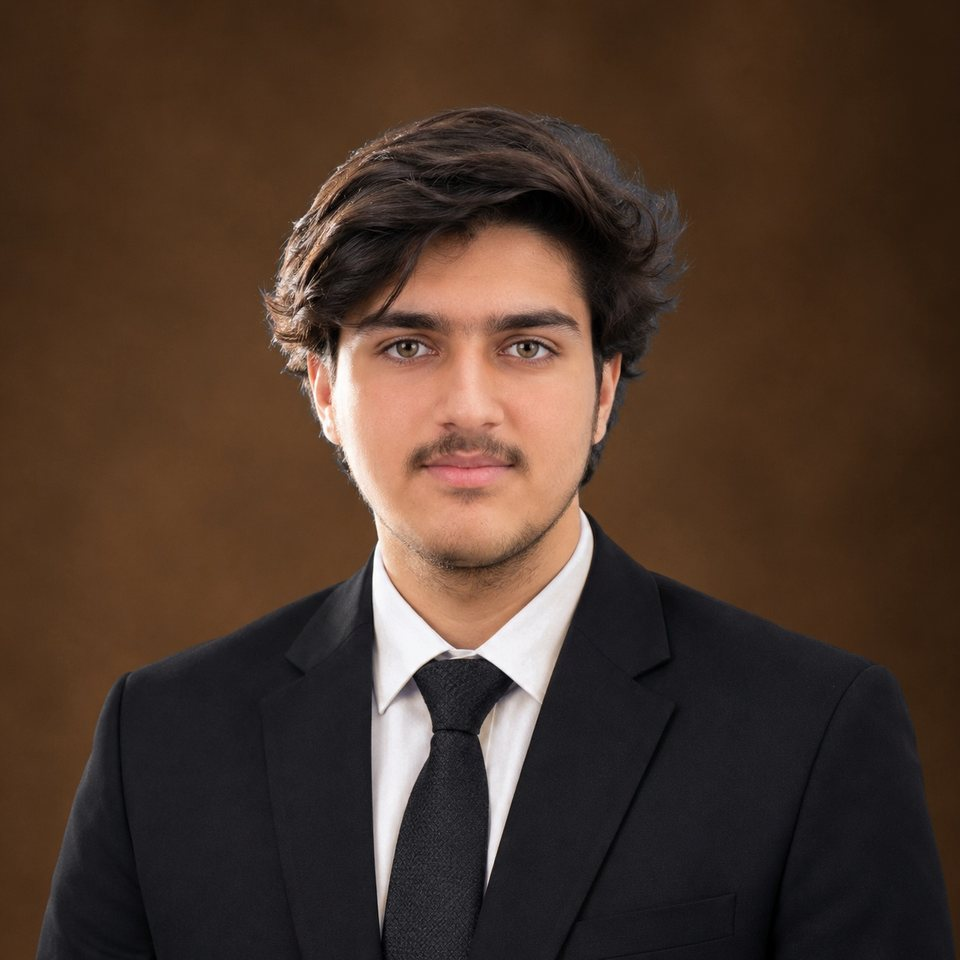
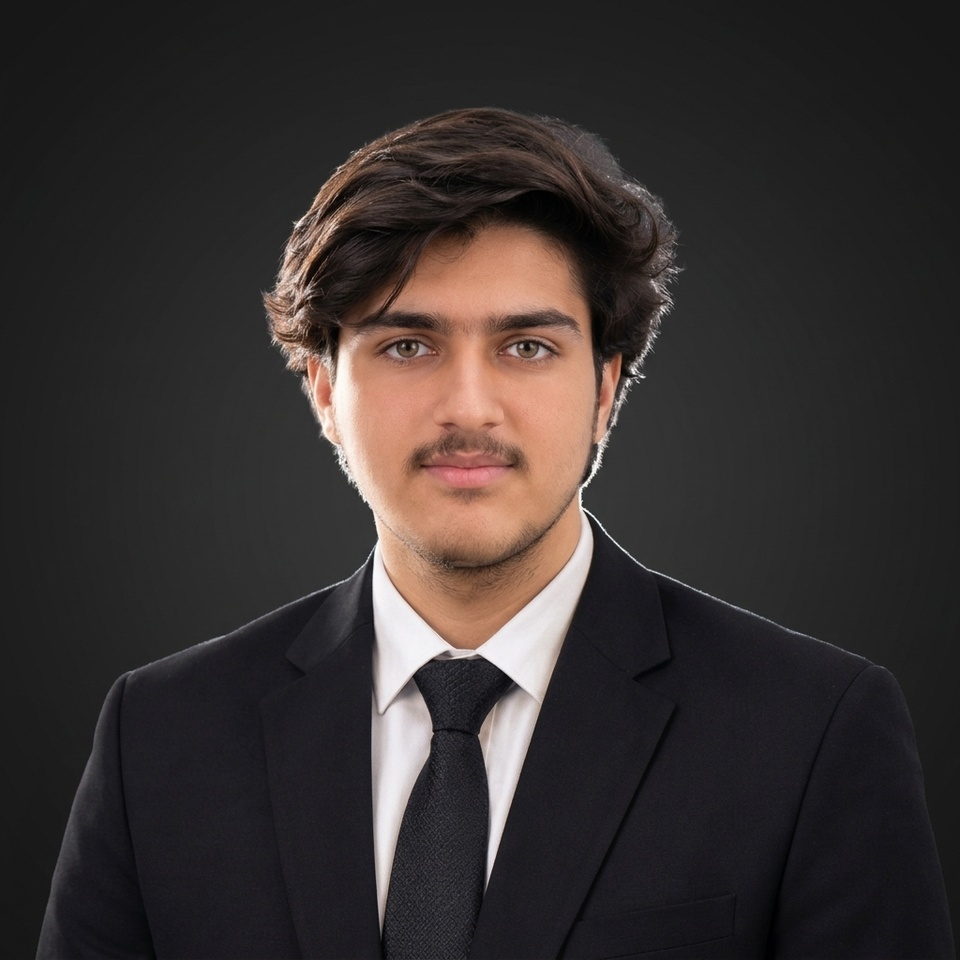
Update profile picture: remove brown studio backdrop and replace with sleek Charcoal Grey background and Moonlight Silver rim lighting

diff --git a/index.html b/index.html
@@ -182,7 +182,7 @@
             <div class="hero__portrait">
                 <div class="hero__portrait-frame">
                     <div class="hero__portrait-glow" aria-hidden="true"></div>
-                    <img src="profile.jpg" alt="Syed Ali Mehdi — Professional Portrait" class="hero__portrait-img" loading="eager" fetchpriority="high" decoding="async" width="960" height="960">
+                    <img src="profile.jpg?v=2.0" alt="Syed Ali Mehdi — Professional Portrait" class="hero__portrait-img" loading="eager" fetchpriority="high" decoding="async" width="960" height="960">
                 </div>
             </div>
         </div>
@@ -245,7 +245,7 @@
 <!-- Image Column (RIGHT) -->
                 <div class="about__image-col">
                     <div class="about__image-wrapper">
-                        <img src="profile.jpg" alt="Mehdi" class="about__image img-flip-horizontal" loading="lazy" decoding="async" width="960" height="960">
+                        <img src="profile.jpg?v=2.0" alt="Mehdi" class="about__image img-flip-horizontal" loading="lazy" decoding="async" width="960" height="960">
                         <div class="about__image-accent" aria-hidden="true"></div>
                     </div>
 

diff --git a/cv.html b/cv.html
@@ -918,7 +918,7 @@
         <header class="cv-header">
             <div class="header-main-info">
                 <div class="cv-avatar-frame">
-                    <img src="profile.jpg" alt="Syed Ali Mehdi" class="cv-profile-img" loading="eager" decoding="async" width="960" height="960">
+                    <img src="profile.jpg?v=2.0" alt="Syed Ali Mehdi" class="cv-profile-img" loading="eager" decoding="async" width="960" height="960">
                 </div>
                 <div class="header-title-block">
                     <div class="header-name-row">
